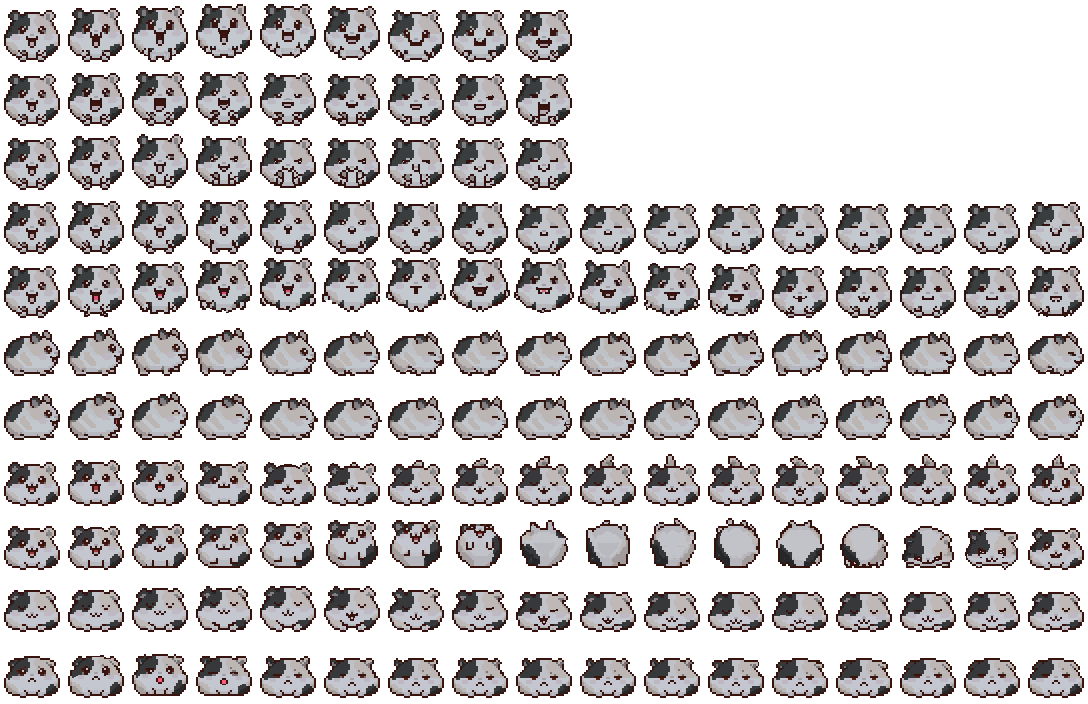
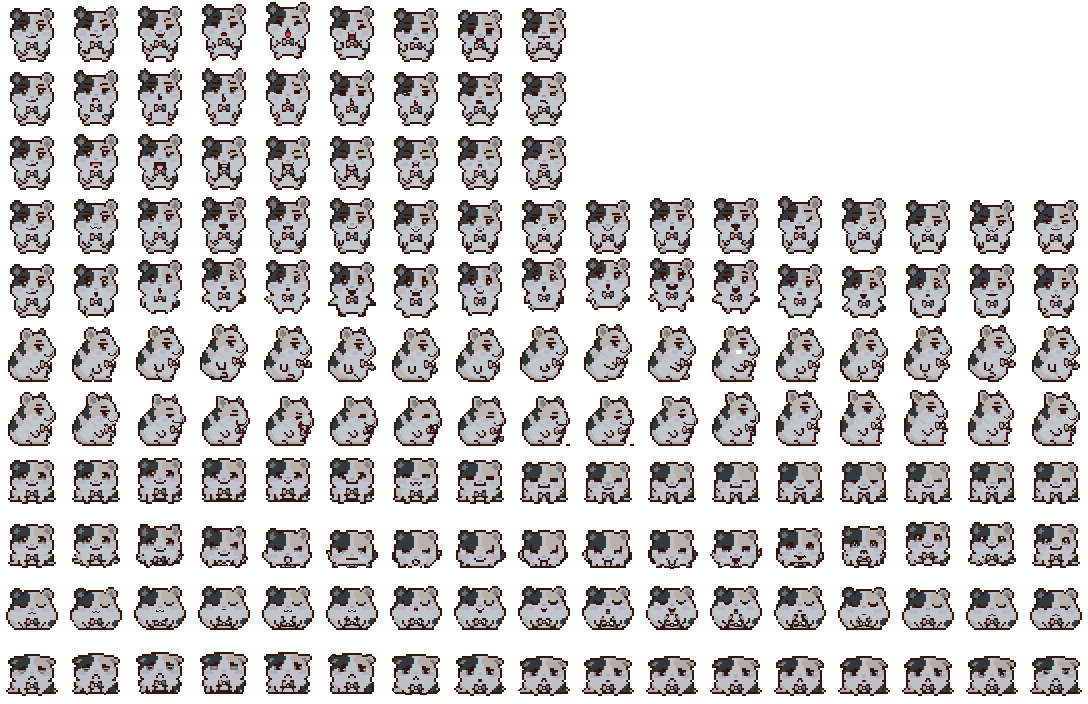
Старички из подростка (1.27.2) (#87)
Claude-Session: https://claude.ai/code/session_01Xy48j64qLpetrE3qonuyEK

Changed region(s): [[0.0, 0.0, 1.0, 1.0]]

diff --git a/src/render/petMeta.ts b/src/render/petMeta.ts
@@ -27,19 +27,19 @@ export const PET_META: Readonly<Record<string, SheetMeta>> = {
   cat_child: { cell: 64, cols: 17, rows: ['idle', 'sleep', 'eat', 'idle_v3', 'catch_v3', 'walk_v3', 'eat_v3', 'lie_v3', 'roll_v3', 'sleep_v3', 'sad_v3'], feet: 62, left: 6, right: 58, rowInfo: { idle_v3: { feet: 62, left: 8, right: 60, frames: 17 }, catch_v3: { feet: 62, left: 8, right: 60, frames: 17 }, walk_v3: { feet: 62, left: 2, right: 60, frames: 17 }, eat_v3: { feet: 62, left: 0, right: 64, frames: 17 }, lie_v3: { feet: 60, left: 4, right: 60, frames: 17 }, roll_v3: { feet: 60, left: 2, right: 62, frames: 17 }, sleep_v3: { feet: 51, left: 8, right: 56, frames: 17 }, sad_v3: { feet: 60, left: 2, right: 62, frames: 17 } } },
   cat_teen: { cell: 64, cols: 17, rows: ['idle', 'sleep', 'eat', 'idle_v3', 'catch_v3', 'walk_v3', 'eat_v3', 'lie_v3', 'roll_v3', 'sleep_v3', 'sad_v3'], feet: 63, left: 10, right: 58, rowInfo: { idle_v3: { feet: 63, left: 13, right: 56, frames: 17 }, catch_v3: { feet: 63, left: 7, right: 59, frames: 17 }, walk_v3: { feet: 56, left: 2, right: 61, frames: 17 }, eat_v3: { feet: 56, left: 2, right: 64, frames: 17 }, lie_v3: { feet: 52, left: 2, right: 63, frames: 17 }, roll_v3: { feet: 52, left: 1, right: 64, frames: 17 }, sleep_v3: { feet: 55, left: 4, right: 60, frames: 17 }, sad_v3: { feet: 52, left: 2, right: 63, frames: 17 } } },
   cat_adultNaughty: { cell: 64, cols: 17, rows: ['idle', 'sleep', 'eat', 'idle_v3', 'catch_v3', 'walk_v3', 'eat_v3', 'lie_v3', 'roll_v3', 'sleep_v3', 'sad_v3'], feet: 62, left: 2, right: 62, rowInfo: { idle_v3: { feet: 62, left: 2, right: 62, frames: 17 }, catch_v3: { feet: 62, left: 2, right: 60, frames: 17 }, walk_v3: { feet: 62, left: 2, right: 60, frames: 17 }, eat_v3: { feet: 62, left: 2, right: 62, frames: 17 }, lie_v3: { feet: 56, left: 4, right: 62, frames: 17 }, roll_v3: { feet: 56, left: 4, right: 64, frames: 17 }, sleep_v3: { feet: 58, left: 2, right: 62, frames: 17 }, sad_v3: { feet: 56, left: 2, right: 64, frames: 17 } } },
-  cat_elder: { cell: 64, cols: 17, rows: ['idle', 'sleep', 'eat', 'idle_v3', 'catch_v3', 'walk_v3', 'eat_v3', 'lie_v3', 'roll_v3', 'sleep_v3', 'sad_v3'], feet: 62, left: 2, right: 60, rowInfo: { idle_v3: { feet: 62, left: 2, right: 62, frames: 17 }, catch_v3: { feet: 62, left: 2, right: 60, frames: 17 }, walk_v3: { feet: 62, left: 2, right: 62, frames: 17 }, eat_v3: { feet: 62, left: 0, right: 64, frames: 17 }, lie_v3: { feet: 58, left: 0, right: 62, frames: 17 }, roll_v3: { feet: 58, left: 2, right: 62, frames: 17 }, sleep_v3: { feet: 58, left: 2, right: 58, frames: 17 }, sad_v3: { feet: 58, left: 2, right: 62, frames: 17 } } },
+  cat_elder: { cell: 64, cols: 17, rows: ['idle', 'sleep', 'eat', 'idle_v3', 'catch_v3', 'walk_v3', 'eat_v3', 'lie_v3', 'roll_v3', 'sleep_v3', 'sad_v3'], feet: 63, left: 10, right: 58, rowInfo: { idle_v3: { feet: 63, left: 13, right: 56, frames: 17 }, catch_v3: { feet: 63, left: 7, right: 59, frames: 17 }, walk_v3: { feet: 56, left: 2, right: 61, frames: 17 }, eat_v3: { feet: 56, left: 2, right: 64, frames: 17 }, lie_v3: { feet: 52, left: 2, right: 63, frames: 17 }, roll_v3: { feet: 52, left: 1, right: 64, frames: 17 }, sleep_v3: { feet: 55, left: 4, right: 60, frames: 17 }, sad_v3: { feet: 52, left: 2, right: 63, frames: 17 } } },
   cat_adultNormal: { cell: 64, cols: 17, rows: ['idle', 'sleep', 'eat', 'idle_v3', 'catch_v3', 'walk_v3', 'eat_v3', 'lie_v3', 'roll_v3', 'sleep_v3', 'sad_v3'], feet: 62, left: 2, right: 62, rowInfo: { idle_v3: { feet: 62, left: 2, right: 62, frames: 17 }, catch_v3: { feet: 62, left: 0, right: 62, frames: 17 }, walk_v3: { feet: 62, left: 2, right: 60, frames: 17 }, eat_v3: { feet: 62, left: 0, right: 64, frames: 17 }, lie_v3: { feet: 54, left: 2, right: 64, frames: 17 }, roll_v3: { feet: 54, left: 2, right: 62, frames: 17 }, sleep_v3: { feet: 54, left: 2, right: 60, frames: 17 }, sad_v3: { feet: 54, left: 2, right: 64, frames: 17 } } },
   blob_baby: { cell: 64, cols: 17, rows: ['idle', 'sleep', 'eat', 'idle_v3', 'catch_v3', 'walk_v3', 'eat_v3', 'lie_v3', 'roll_v3', 'sleep_v3', 'sad_v3'], feet: 52, left: 17, right: 47, rowInfo: { idle_v3: { feet: 52, left: 18, right: 46, frames: 17 }, catch_v3: { feet: 52, left: 13, right: 49, frames: 17 }, walk_v3: { feet: 52, left: 12, right: 52, frames: 17 }, eat_v3: { feet: 52, left: 11, right: 54, frames: 17 }, lie_v3: { feet: 52, left: 14, right: 48, frames: 17 }, roll_v3: { feet: 52, left: 14, right: 48, frames: 17 }, sleep_v3: { feet: 52, left: 18, right: 46, frames: 17 }, sad_v3: { feet: 52, left: 14, right: 48, frames: 17 } } },
   blob_child: { cell: 64, cols: 17, rows: ['idle', 'sleep', 'eat', 'idle_v3', 'catch_v3', 'walk_v3', 'eat_v3', 'lie_v3', 'roll_v3', 'sleep_v3', 'sad_v3'], feet: 52, left: 10, right: 54, rowInfo: { idle_v3: { feet: 52, left: 14, right: 50, frames: 17 }, catch_v3: { feet: 54, left: 9, right: 54, frames: 17 }, walk_v3: { feet: 52, left: 10, right: 54, frames: 17 }, eat_v3: { feet: 52, left: 8, right: 64, frames: 17 }, lie_v3: { feet: 52, left: 12, right: 52, frames: 17 }, roll_v3: { feet: 52, left: 10, right: 54, frames: 17 }, sleep_v3: { feet: 52, left: 12, right: 52, frames: 17 }, sad_v3: { feet: 52, left: 10, right: 54, frames: 17 } } },
   blob_teen: { cell: 64, cols: 17, rows: ['idle', 'sleep', 'eat', 'idle_v3', 'catch_v3', 'walk_v3', 'eat_v3', 'lie_v3', 'roll_v3', 'sleep_v3', 'sad_v3'], feet: 62, left: 10, right: 54, rowInfo: { idle_v3: { feet: 62, left: 10, right: 54, frames: 17 }, catch_v3: { feet: 62, left: 8, right: 56, frames: 17 }, walk_v3: { feet: 62, left: 8, right: 56, frames: 17 }, eat_v3: { feet: 62, left: 8, right: 58, frames: 17 }, lie_v3: { feet: 56, left: 8, right: 56, frames: 17 }, roll_v3: { feet: 57, left: 6, right: 58, frames: 17 }, sleep_v3: { feet: 54, left: 6, right: 58, frames: 17 }, sad_v3: { feet: 56, left: 6, right: 58, frames: 17 } } },
   blob_adultNaughty: { cell: 64, cols: 17, rows: ['idle', 'sleep', 'eat', 'idle_v3', 'catch_v3', 'walk_v3', 'eat_v3', 'lie_v3', 'roll_v3', 'sleep_v3', 'sad_v3'], feet: 62, left: 4, right: 60, rowInfo: { idle_v3: { feet: 62, left: 4, right: 60, frames: 17 }, catch_v3: { feet: 62, left: 2, right: 62, frames: 17 }, walk_v3: { feet: 62, left: 4, right: 60, frames: 17 }, eat_v3: { feet: 62, left: 4, right: 60, frames: 17 }, lie_v3: { feet: 58, left: 2, right: 62, frames: 17 }, roll_v3: { feet: 58, left: 2, right: 62, frames: 17 }, sleep_v3: { feet: 58, left: 4, right: 60, frames: 17 }, sad_v3: { feet: 58, left: 2, right: 62, frames: 17 } } },
-  blob_elder: { cell: 64, cols: 17, rows: ['idle', 'sleep', 'eat', 'idle_v3', 'catch_v3', 'walk_v3', 'eat_v3', 'lie_v3', 'roll_v3', 'sleep_v3', 'sad_v3'], feet: 62, left: 4, right: 60, rowInfo: { idle_v3: { feet: 62, left: 4, right: 60, frames: 17 }, catch_v3: { feet: 62, left: 2, right: 62, frames: 17 }, walk_v3: { feet: 56, left: 4, right: 60, frames: 17 }, eat_v3: { feet: 56, left: 4, right: 62, frames: 17 }, lie_v3: { feet: 58, left: 4, right: 60, frames: 17 }, roll_v3: { feet: 58, left: 4, right: 60, frames: 17 }, sleep_v3: { feet: 56, left: 4, right: 60, frames: 17 }, sad_v3: { feet: 58, left: 4, right: 60, frames: 17 } } },
+  blob_elder: { cell: 64, cols: 17, rows: ['idle', 'sleep', 'eat', 'idle_v3', 'catch_v3', 'walk_v3', 'eat_v3', 'lie_v3', 'roll_v3', 'sleep_v3', 'sad_v3'], feet: 62, left: 10, right: 54, rowInfo: { idle_v3: { feet: 62, left: 10, right: 54, frames: 17 }, catch_v3: { feet: 62, left: 8, right: 56, frames: 17 }, walk_v3: { feet: 62, left: 8, right: 56, frames: 17 }, eat_v3: { feet: 62, left: 8, right: 58, frames: 17 }, lie_v3: { feet: 56, left: 8, right: 56, frames: 17 }, roll_v3: { feet: 57, left: 6, right: 58, frames: 17 }, sleep_v3: { feet: 54, left: 6, right: 58, frames: 17 }, sad_v3: { feet: 56, left: 6, right: 58, frames: 17 } } },
   blob_adultNormal: { cell: 64, cols: 17, rows: ['idle', 'sleep', 'eat', 'idle_v3', 'catch_v3', 'walk_v3', 'eat_v3', 'lie_v3', 'roll_v3', 'sleep_v3', 'sad_v3'], feet: 62, left: 4, right: 60, rowInfo: { idle_v3: { feet: 62, left: 4, right: 60, frames: 17 }, catch_v3: { feet: 62, left: 4, right: 60, frames: 17 }, walk_v3: { feet: 54, left: 4, right: 60, frames: 17 }, eat_v3: { feet: 54, left: 4, right: 60, frames: 17 }, lie_v3: { feet: 58, left: 4, right: 60, frames: 17 }, roll_v3: { feet: 58, left: 4, right: 60, frames: 17 }, sleep_v3: { feet: 62, left: 4, right: 60, frames: 17 }, sad_v3: { feet: 58, left: 4, right: 60, frames: 17 } } },
   dog_baby: { cell: 64, cols: 17, rows: ['idle', 'sleep', 'eat', 'idle_v3', 'catch_v3', 'walk_v3', 'eat_v3', 'lie_v3', 'roll_v3', 'sleep_v3', 'sad_v3'], feet: 64, left: 2, right: 62, rowInfo: { idle_v3: { feet: 64, left: 4, right: 60, frames: 17 }, catch_v3: { feet: 64, left: 4, right: 60, frames: 17 }, walk_v3: { feet: 56, left: 4, right: 60, frames: 17 }, eat_v3: { feet: 56, left: 4, right: 58, frames: 17 }, lie_v3: { feet: 53, left: 10, right: 56, frames: 17 }, roll_v3: { feet: 53, left: 6, right: 57, frames: 17 }, sleep_v3: { feet: 52, left: 6, right: 58, frames: 17 }, sad_v3: { feet: 50, left: 8, right: 58, frames: 17 } } },
   dog_child: { cell: 64, cols: 17, rows: ['idle', 'sleep', 'eat', 'idle_v3', 'catch_v3', 'walk_v3', 'eat_v3', 'lie_v3', 'roll_v3', 'sleep_v3', 'sad_v3'], feet: 55, left: 11, right: 53, rowInfo: { idle_v3: { feet: 55, left: 13, right: 52, frames: 17 }, catch_v3: { feet: 55, left: 12, right: 52, frames: 17 }, walk_v3: { feet: 55, left: 8, right: 55, frames: 17 }, eat_v3: { feet: 55, left: 7, right: 57, frames: 17 }, lie_v3: { feet: 54, left: 7, right: 56, frames: 17 }, roll_v3: { feet: 54, left: 6, right: 59, frames: 17 }, sleep_v3: { feet: 48, left: 7, right: 56, frames: 17 }, sad_v3: { feet: 54, left: 6, right: 54, frames: 17 } } },
   dog_teen: { cell: 64, cols: 17, rows: ['idle', 'sleep', 'eat', 'idle_v3', 'catch_v3', 'walk_v3', 'eat_v3', 'lie_v3', 'roll_v3', 'sleep_v3', 'sad_v3'], feet: 64, left: 8, right: 56, rowInfo: { idle_v3: { feet: 64, left: 8, right: 56, frames: 17 }, catch_v3: { feet: 64, left: 6, right: 58, frames: 17 }, walk_v3: { feet: 60, left: 0, right: 62, frames: 17 }, eat_v3: { feet: 60, left: 0, right: 64, frames: 17 }, lie_v3: { feet: 54, left: 4, right: 62, frames: 17 }, roll_v3: { feet: 54, left: 2, right: 62, frames: 17 }, sleep_v3: { feet: 56, left: 4, right: 60, frames: 17 }, sad_v3: { feet: 54, left: 4, right: 62, frames: 17 } } },
   dog_adultNaughty: { cell: 64, cols: 17, rows: ['idle', 'sleep', 'eat', 'idle_v3', 'catch_v3', 'walk_v3', 'eat_v3', 'lie_v3', 'roll_v3', 'sleep_v3', 'sad_v3'], feet: 64, left: 2, right: 62, rowInfo: { idle_v3: { feet: 64, left: 2, right: 62, frames: 17 }, catch_v3: { feet: 64, left: 2, right: 62, frames: 17 }, walk_v3: { feet: 60, left: 4, right: 58, frames: 17 }, eat_v3: { feet: 60, left: 2, right: 64, frames: 17 }, lie_v3: { feet: 56, left: 2, right: 64, frames: 17 }, roll_v3: { feet: 56, left: 2, right: 62, frames: 17 }, sleep_v3: { feet: 54, left: 4, right: 58, frames: 17 }, sad_v3: { feet: 56, left: 2, right: 62, frames: 17 } } },
-  dog_elder: { cell: 64, cols: 17, rows: ['idle', 'sleep', 'eat', 'idle_v3', 'catch_v3', 'walk_v3', 'eat_v3', 'lie_v3', 'roll_v3', 'sleep_v3', 'sad_v3'], feet: 64, left: 2, right: 62, rowInfo: { idle_v3: { feet: 64, left: 2, right: 64, frames: 17 }, catch_v3: { feet: 64, left: 2, right: 62, frames: 17 }, walk_v3: { feet: 60, left: 4, right: 60, frames: 17 }, eat_v3: { feet: 60, left: 2, right: 64, frames: 17 }, lie_v3: { feet: 54, left: 6, right: 60, frames: 17 }, roll_v3: { feet: 54, left: 6, right: 58, frames: 17 }, sleep_v3: { feet: 54, left: 4, right: 60, frames: 17 }, sad_v3: { feet: 54, left: 6, right: 58, frames: 17 } } },
+  dog_elder: { cell: 64, cols: 17, rows: ['idle', 'sleep', 'eat', 'idle_v3', 'catch_v3', 'walk_v3', 'eat_v3', 'lie_v3', 'roll_v3', 'sleep_v3', 'sad_v3'], feet: 64, left: 8, right: 56, rowInfo: { idle_v3: { feet: 64, left: 8, right: 56, frames: 17 }, catch_v3: { feet: 64, left: 6, right: 58, frames: 17 }, walk_v3: { feet: 60, left: 0, right: 62, frames: 17 }, eat_v3: { feet: 60, left: 0, right: 64, frames: 17 }, lie_v3: { feet: 54, left: 4, right: 62, frames: 17 }, roll_v3: { feet: 54, left: 2, right: 62, frames: 17 }, sleep_v3: { feet: 56, left: 4, right: 60, frames: 17 }, sad_v3: { feet: 54, left: 4, right: 62, frames: 17 } } },
   dog_adultNormal: { cell: 64, cols: 17, rows: ['idle', 'sleep', 'eat', 'idle_v3', 'catch_v3', 'walk_v3', 'eat_v3', 'lie_v3', 'roll_v3', 'sleep_v3', 'sad_v3'], feet: 64, left: 2, right: 62, rowInfo: { idle_v3: { feet: 64, left: 2, right: 62, frames: 17 }, catch_v3: { feet: 64, left: 2, right: 62, frames: 17 }, walk_v3: { feet: 62, left: 2, right: 60, frames: 17 }, eat_v3: { feet: 62, left: 2, right: 64, frames: 17 }, lie_v3: { feet: 56, left: 8, right: 58, frames: 17 }, roll_v3: { feet: 56, left: 6, right: 60, frames: 17 }, sleep_v3: { feet: 54, left: 4, right: 62, frames: 17 }, sad_v3: { feet: 50, left: 2, right: 62, frames: 17 } } },
   props_egg: { cell: 64, cols: 11, rows: ['wobble9_cracked_grave'], feet: 62, left: 7, right: 57 },
   butterfly: { cell: 32, cols: 5, rows: ['flap'], feet: 29, left: 1, right: 31 },

diff --git a/src/version.ts b/src/version.ts
@@ -1,2 +1,2 @@
 /** Версия игры — показывается в настройках. Меняется вместе с package.json. */
-export const APP_VERSION = '1.27.1';
+export const APP_VERSION = '1.27.2';

diff --git a/scripts/pets-elder.py b/scripts/pets-elder.py
@@ -1,5 +1,5 @@
 #!/usr/bin/env python3
-"""Старички = взрослые (форма «добрая») с седой шерстью: берёт листы *_adultNormal и обесцвечивает мех.
+"""Старички = взрослые (подросток) с седой шерстью: берёт листы *_adultNormal и обесцвечивает мех.
 Запуск после pets-build.py и pets-prune.py: python3 scripts/pets-elder.py  (пишет art/pets/*_elder.png, meta.json, src/render/petMeta.ts)."""
 import colorsys, json, os, re
 from PIL import Image
@@ -7,7 +7,7 @@ from PIL import Image
 ROOT = os.path.dirname(os.path.dirname(os.path.abspath(__file__)))
 DIR = os.path.join(ROOT, 'art', 'pets')
 SPECIES = ['cat', 'dog', 'blob']
-SRC_FORM = 'adultGood'
+SRC_FORM = 'teen'
 
 def grey(px):
     r, g, b, a = px
